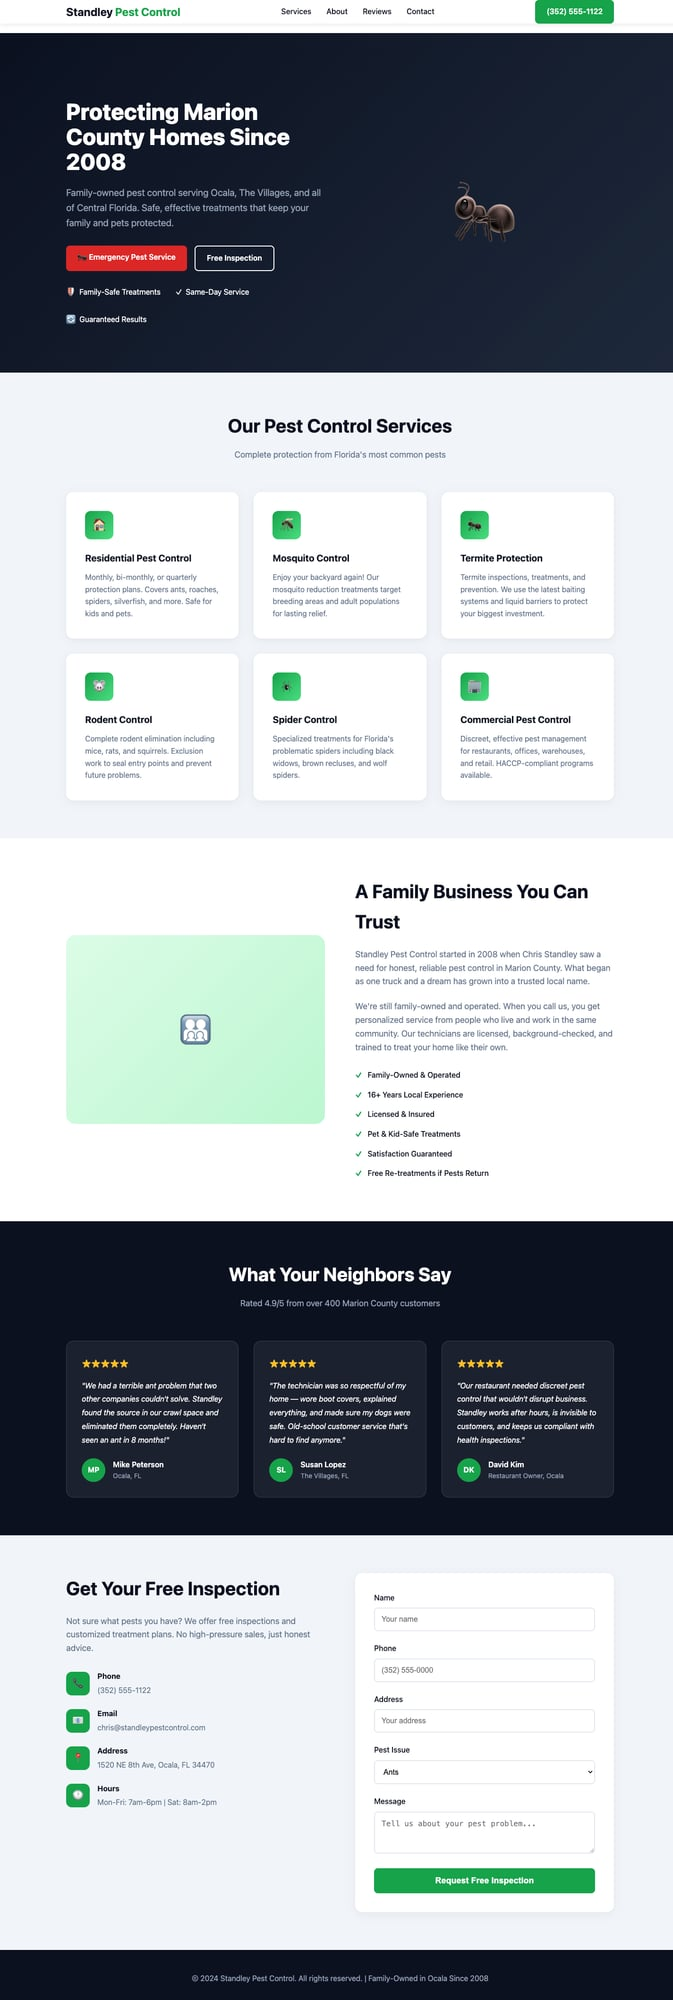
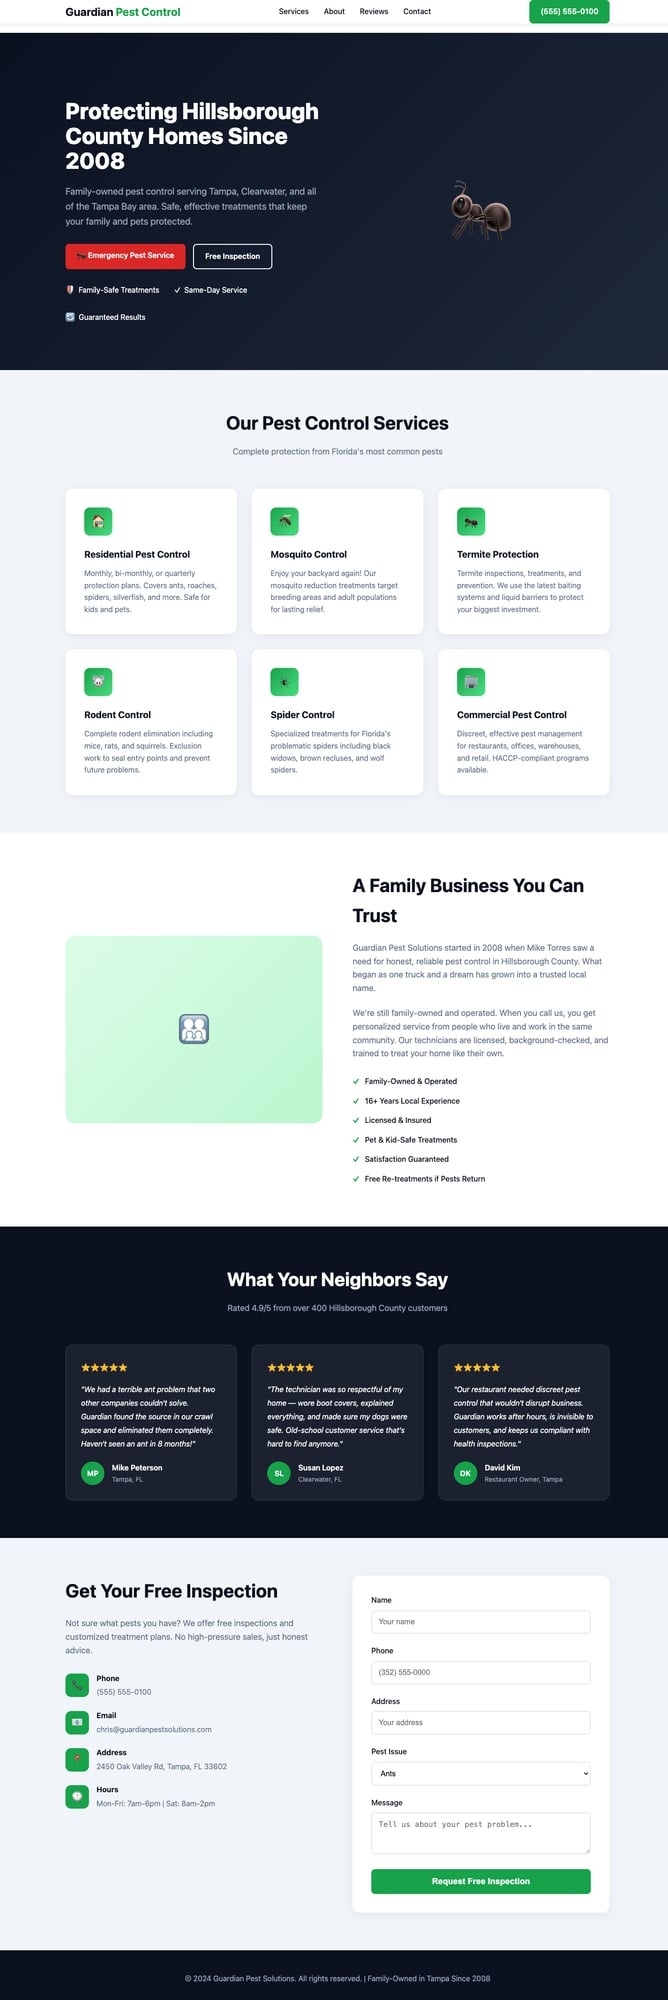
Replace client-specific branding in pest/HVAC screenshots with generic names

diff --git a/tools.html b/tools.html
@@ -195,7 +195,7 @@
       <div class="tool-card reveal" data-category="sales-tools websites">
         <img class="tool-thumb" src="./img/tools-gallery/hvac-pitch.jpg" alt="HVAC industry pitch page" loading="lazy">
         <div class="tool-info">
-          <h3>HVAC Industry Pitch Page</h3>
+          <h3>HVAC Client Pitch Page</h3>
           <p>Industry-specific landing page for HVAC contractors. Tailored pain points, ROI math, pricing, testimonials — all customized for HVAC workflows.</p>
           <div class="tool-tags">
             <span class="tool-tag demo">Template</span>
@@ -222,7 +222,7 @@
         <img class="tool-thumb" src="./img/tools-gallery/portfolio-pest.jpg" alt="Standley Pest Control website" loading="lazy">
         <div class="tool-info">
           <h3>Pest Control Website</h3>
-          <p>Full business website with service pages, reviews, contact forms, and mobile-responsive design. Built and deployed for Standley Pest Control.</p>
+          <p>Full business website with service pages, reviews, contact forms, and mobile-responsive design. Built for a local pest control company.</p>
           <div class="tool-tags">
             <span class="tool-tag live">Live</span>
             <span class="tool-tag">Website</span>
